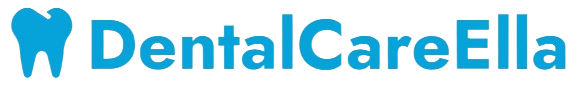
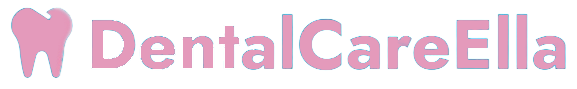
Add files via upload

Changed region(s): [[0.156, 0.1573, 0.9983, 0.7865], [0.0, 0.0899, 0.1248, 0.8764]]

diff --git a/index.html b/index.html
@@ -69,8 +69,8 @@
             <img class="first-slide" src="images/balie22.jpg" alt="First slide">
             <div class="container">
               <div class="carousel-caption text-center">
-              <div class="text-white bg-info" style="display:inline-block;">&nbsp;<b>Welkom bij uw vertrouwde mondhygiënist.</b>&nbsp;</div>
-                <p><div class="text-white bg-info" style="display:inline-block;">&nbsp;<b>Jouw mondhygiëne, onze passie ! <br/>
+           <H2>   <div class="text-white bg-info" style="display:inline-block;">&nbsp;<b>Welkom bij uw vertrouwde mondhygiënist.</b>&nbsp;</div> </H2>
+                
 Ik sta voor deskundige zorg en persoonlijke aandacht. Je mondgezondheid is voor mij een prioriteit!</b>&nbsp;</div></p>
             
               </div>
@@ -119,13 +119,14 @@ Ik sta voor deskundige zorg en persoonlijke aandacht. Je mondgezondheid is voor 
 		  
             <img class="rounded-circle" src="images/ragers2.png" alt="Generic placeholder image" width="200" height="200">
             
-            <p>Ragers, stokers en andere producten wat betrekking heeft op het verzorgen van de mond verkopen wij aan de balie tegen inkoopprijs</p>
+            <p>Naast het poetsen van de tanden is het ook belangrijk om de ruimtes tussen de tanden schoon te
+houden. Samen met de mondhygiënist kan bepaald worden wat het beste bij jou past.</p>
           </div><!-- /.col-lg-4 -->
           <div class="col-lg-4">
 		  
             <img class="rounded-circle" src="images/ragers.png" alt="Generic placeholder image" width="200" height="200">
             
-            <p>Na een behandeling tegen parodontitis of gingivitis is het belangrijk uw tanden en kiezen goed te onderhouden. Ik hecht dan ook belang aan een goede nazorg en reguliere recall.</p>
+            <p>Na een behandeling van parodontitis of gingivitis is het belangrijk uw tanden en kiezen goed te onderhouden. Ik hecht dan ook belang aan een goede nazorg en reguliere recall.</p>
           </div><!-- /.col-lg-4 -->
         </div><!-- /.row -->
 
@@ -160,7 +161,7 @@ Momenteel werk ik in drie praktijken, gevestigd in Leiden, Nieuw-Vennep en Hoofd
           <div class="col-md-7 order-md-2">
 		  
 		  	 <h5 class="position-relative d-inline-block text-primary text-uppercase">Praktijk</h5>
-                       <h1 class="display-5 mb-0">Ik werk op diverse locaties</h1>
+                      
 					<h1 class="display-2 mb-0">
 					
            
@@ -254,38 +255,53 @@ Momenteel werk ik in drie praktijken, gevestigd in Leiden, Nieuw-Vennep en Hoofd
 					 <h5 class="position-relative d-inline-block text-primary text-uppercase">Werkzaamheden</h5>
                      
 					 
-           <p class="lead">Een mondhygiënist is een HBO-opgeleide professional met een beschermde titel, gespecialiseerd in de preventie en behandeling van (primaire) cariës, tandvleesproblemen en slechte adem. Tijdens het eerste consult wordt een mondonderzoek uitgevoerd, waaronder een tandvleescheck (meten). Op basis van de bevindingen wordt een behandelplan opgesteld en deze met de patiënt besproken. Vervolgens geeft de mondhygiënist uitgebreide voorlichting en instructies over mondverzorging. Tot slot wordt een gebitsreiniging uitgevoerd.
-
-Deze aanpak draagt bij aan een optimale mondgezondheid en helpt problemen in de toekomst te voorkomen.
+           <p class="lead">Een mondhygiënist is een HBO-opgeleide professional met een beschermde titel, gespecialiseerd in de preventie en behandeling van (primaire) cariës, tandvleesproblemen en slechte adem. 
+		   Tijdens het eerste consult wordt een mondonderzoek uitgevoerd, waaronder een tandvleescheck (meten). Op basis van de bevindingen wordt een behandelplan opgesteld en deze met de patiënt besproken. 
+		   Vervolgens geeft de mondhygiënist uitgebreide voorlichting en instructies over mondverzorging. Tot slot wordt een gebitsreiniging uitgevoerd.
+           Deze aanpak draagt bij aan een optimale mondgezondheid en helpt problemen in de toekomst te voorkomen.
 
 			
-            <p class="lead">Als mondhygiënist werk ik met name preventief aan het voorkomen van cariës (gaatjes in tanden en kiezen) en tandvleesproblemen in uw mond. Door mijn behandelingen zorg ik ervoor dat uw gebit en tandvlees in optimale conditie blijven.</p>
-          <p class="lead">Tijdens het eerste consult wordt een mondonderzoek uitgevoerd, waaronder een tandvleescheck (meten). Op basis van de bevindingen wordt een behandelplan opgesteld en deze met de patiënt besproken. Vervolgens geeft de mondhygiënist uitgebreide voorlichting en instructies over mondverzorging. Tot slot wordt een gebitsreiniging uitgevoerd. Deze aanpak draagt bij aan een optimale mondgezondheid en helpt problemen in de toekomst te voorkomen.</p>
-		  </div>
+             </div>
 		  
 		   
 		  
-          <div class="col-md-5">
-          <div class="card text-white bg-info mb-3" style="max-width: 25rem;">
-            <div class="card-header">Een samenvatting van mijn werkzaamheden:</div>
-            <div class="card-body">
-            
-			<h5 class="card-title">Voorlichting</h5>
-              <p class="card-text">Ik leer u ook hoe u uw mond zelf gezond kunt houden door middel van instructie en adviezen over de te gebruiken mondverzorgingsproducten.</p>
-             <hr />
-			
-			
-            <h5 class="card-title">Preventie</h5>
-              <p class="card-text">Als mondhygiënist werk ik met name preventief aan het voorkomen van cariës (gaatjes in tanden en kiezen) en tandvleesproblemen in uw mond. </p>
-             <hr />
-			 <h5 class="card-title">Reinigen</h5>
-              <p class="card-text">Curatieve taken gericht op genezing, zoals het behandelen van tandvleesproblemen, het aanbrengen van beschermende laklaagjes en het vullen van gaatjes.</p>
-            
-              
-			  </div>
-          </div>
-          </div>
+  
+		
+		
+		
+		<div class="col-md-5">
+    <div class="card text-white bg-info mb-3" style="max-width: 25rem;">
+        <div class="card-header">Een samenvatting van mijn werkzaamheden:</div>
+        <div class="card-body">
+            <ul style="list-style-type: disc; padding-left: 1rem;">
+                <li>
+                    <h5 class="card-title">Voorlichting</h5>
+                    <p class="card-text">
+                        Ik leer u ook hoe u uw mond zelf gezond kunt houden door middel van instructie en adviezen over de te gebruiken mondverzorgingsproducten.
+                    </p>
+                </li>
+                <hr />
+                <li>
+                    <h5 class="card-title">Preventie</h5>
+                    <p class="card-text">
+                        Als mondhygiënist werk ik met name preventief aan het voorkomen van cariës (gaatjes in tanden en kiezen) en tandvleesproblemen in uw mond.
+                    </p>
+                </li>
+                <hr />
+                <li>
+                    <h5 class="card-title">Reinigen</h5>
+                    <p class="card-text">
+                        Curatieve taken gericht op genezing, zoals het behandelen van tandvleesproblemen, het aanbrengen van beschermende laklaagjes en het vullen van gaatjes.
+                    </p>
+                </li>
+            </ul>
         </div>
+    </div>
+</div>
+ </div>
+
+		
+		
 
         <hr class="featurette-divider"  id="tarieven">
 

diff --git a/bootstrap/css/carousel.css b/bootstrap/css/carousel.css
@@ -38,7 +38,9 @@ body {
 	
   }
   
-  
+  .text-primary {
+    color: #E49ABB !important;
+}
   
   /*
   .carousel-item > img {
